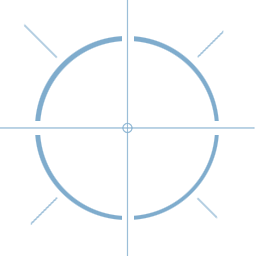
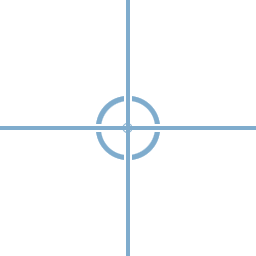
Changed turret crosshairs a bit: now they consist of two parts, one at the cursor's position and the second indicating the direction the turret is currently pointing towards.

diff --git a/Barotrauma/BarotraumaClient/Source/Items/Components/Turret.cs b/Barotrauma/BarotraumaClient/Source/Items/Components/Turret.cs
@@ -13,7 +13,7 @@ namespace Barotrauma.Items.Components
 {
     partial class Turret : Powered, IDrawableComponent, IServerSerializable
     {
-        private Sprite crosshairSprite, disabledCrossHairSprite;
+        private Sprite crosshairSprite, crosshairPointerSprite;
 
         private GUIProgressBar powerIndicator;
 
@@ -22,6 +22,8 @@ namespace Barotrauma.Items.Components
         private Sound startMoveSound, endMoveSound, moveSound;
 
         private SoundChannel moveSoundChannel;
+
+        private Vector2 crosshairPos, crosshairPointerPos;
 
         [Editable, Serialize("0.0,0.0,0.0,0.0", true)]
         public Color HudTint
@@ -61,8 +63,8 @@ namespace Barotrauma.Items.Components
                     case "crosshair":
                         crosshairSprite = new Sprite(subElement, texturePath.Contains("/") ? "" : Path.GetDirectoryName(item.Prefab.ConfigFile));
                         break;
-                    case "disabledcrosshair":
-                        disabledCrossHairSprite = new Sprite(subElement, texturePath.Contains("/") ? "" : Path.GetDirectoryName(item.Prefab.ConfigFile));
+                    case "crosshairpointer":
+                        crosshairPointerSprite = new Sprite(subElement, texturePath.Contains("/") ? "" : Path.GetDirectoryName(item.Prefab.ConfigFile));
                         break;
                     case "startmovesound":
                         startMoveSound = Submarine.LoadRoundSound(subElement, false);
@@ -92,6 +94,19 @@ namespace Barotrauma.Items.Components
         partial void UpdateProjSpecific(float deltaTime)
         {
             recoilTimer -= deltaTime;
+
+            if (crosshairSprite != null)
+            {
+                Vector2 itemPos = cam.WorldToScreen(item.WorldPosition);
+                Vector2 turretDir = new Vector2((float)Math.Cos(rotation), (float)Math.Sin(rotation));
+
+                Vector2 mouseDiff = itemPos - PlayerInput.MousePosition;
+                crosshairPos = new Vector2(
+                    MathHelper.Clamp(itemPos.X + turretDir.X * mouseDiff.Length(), 0, GameMain.GraphicsWidth),
+                    MathHelper.Clamp(itemPos.Y + turretDir.Y * mouseDiff.Length(), 0, GameMain.GraphicsHeight));
+            }
+
+            crosshairPointerPos = PlayerInput.MousePosition;
 
             if (Math.Abs(angularVelocity) > 0.1f)
             {
@@ -132,6 +147,22 @@ namespace Barotrauma.Items.Components
             {
                 moveSoundChannel.Gain = MathHelper.Clamp(Math.Abs(angularVelocity), 0.5f, 1.0f);
             }
+        }
+
+        public override void UpdateHUD(Character character, float deltaTime)
+        {
+            if (crosshairSprite != null)
+            {
+                Vector2 itemPos = cam.WorldToScreen(item.WorldPosition);
+                Vector2 turretDir = new Vector2((float)Math.Cos(rotation), (float)Math.Sin(rotation));
+
+                Vector2 mouseDiff = itemPos - PlayerInput.MousePosition;
+                crosshairPos = new Vector2(
+                    MathHelper.Clamp(itemPos.X + turretDir.X * mouseDiff.Length(), 0, GameMain.GraphicsWidth),
+                    MathHelper.Clamp(itemPos.Y + turretDir.Y * mouseDiff.Length(), 0, GameMain.GraphicsHeight));
+            }
+
+            crosshairPointerPos = PlayerInput.MousePosition;
         }
 
         public void Draw(SpriteBatch spriteBatch, bool editing = false)
@@ -180,7 +211,6 @@ namespace Barotrauma.Items.Components
                 drawPos + barrelPos,
                 drawPos + barrelPos + new Vector2((float)Math.Cos((maxRotation + minRotation) / 2), (float)Math.Sin((maxRotation + minRotation) / 2)) * 60.0f,
                 Color.LightGreen);
-
         }
 
         public override void DrawHUD(SpriteBatch spriteBatch, Character character)
@@ -203,9 +233,7 @@ namespace Barotrauma.Items.Components
                 if (itemContainer?.Inventory?.Items == null) continue;   
                 
                 availableAmmo.AddRange(itemContainer.Inventory.Items);                
-            }
-
-            
+            }            
 
             float chargeRate = powerConsumption <= 0.0f ? 1.0f : batteryCharge / batteryCapacity;
             bool charged = batteryCharge * 3600.0f > powerConsumption;
@@ -238,14 +266,11 @@ namespace Barotrauma.Items.Components
                 }
             }
 
-            if (readyToFire)
+            if (crosshairSprite != null)
             {
-                if (crosshairSprite != null) crosshairSprite.Draw(spriteBatch, PlayerInput.MousePosition);
+                crosshairSprite.Draw(spriteBatch, crosshairPos, readyToFire ? Color.White : Color.White * 0.2f, 0, (float)Math.Sqrt(cam.Zoom));
             }
-            else
-            {
-                if (disabledCrossHairSprite != null) disabledCrossHairSprite.Draw(spriteBatch, PlayerInput.MousePosition);
-            }
+            if (crosshairPointerSprite != null) crosshairPointerSprite.Draw(spriteBatch, crosshairPointerPos, 0, (float)Math.Sqrt(cam.Zoom));            
         }
         
         public void ClientRead(ServerNetObject type, NetBuffer msg, float sendingTime)
